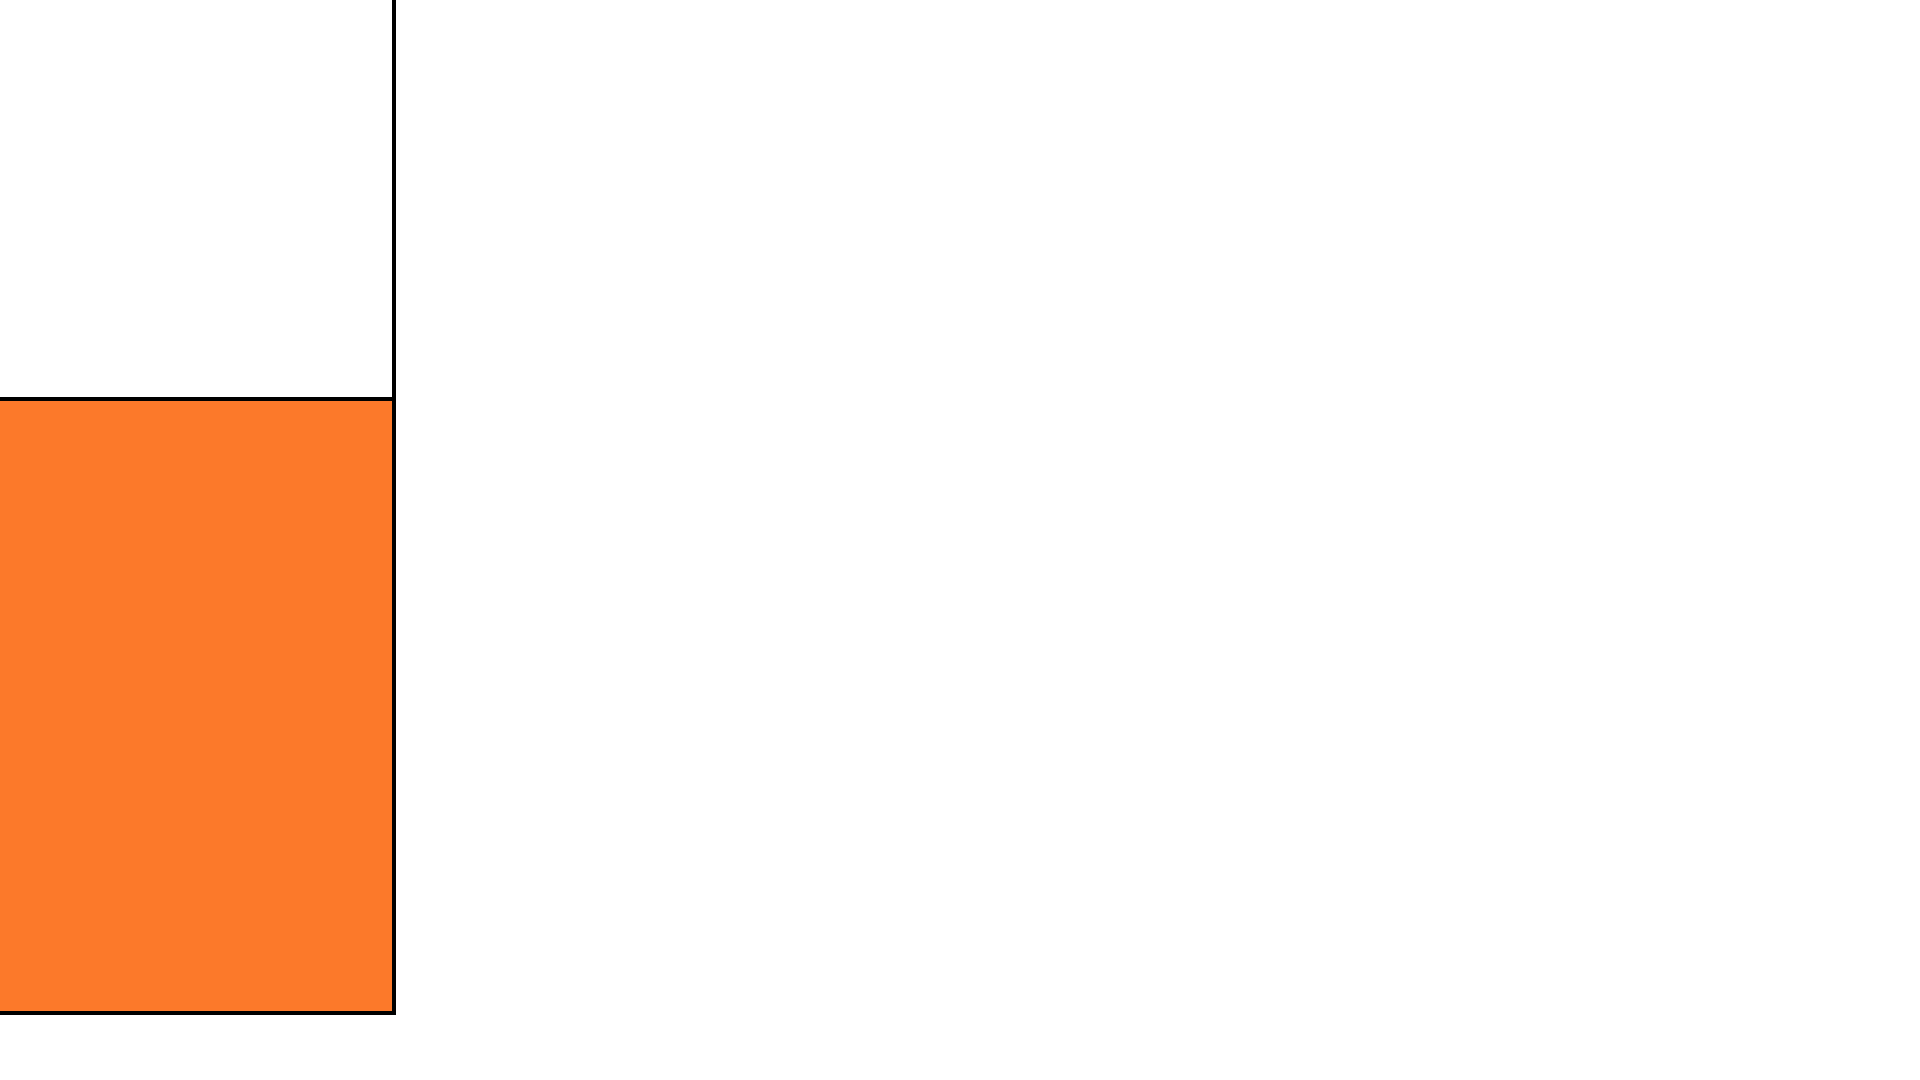
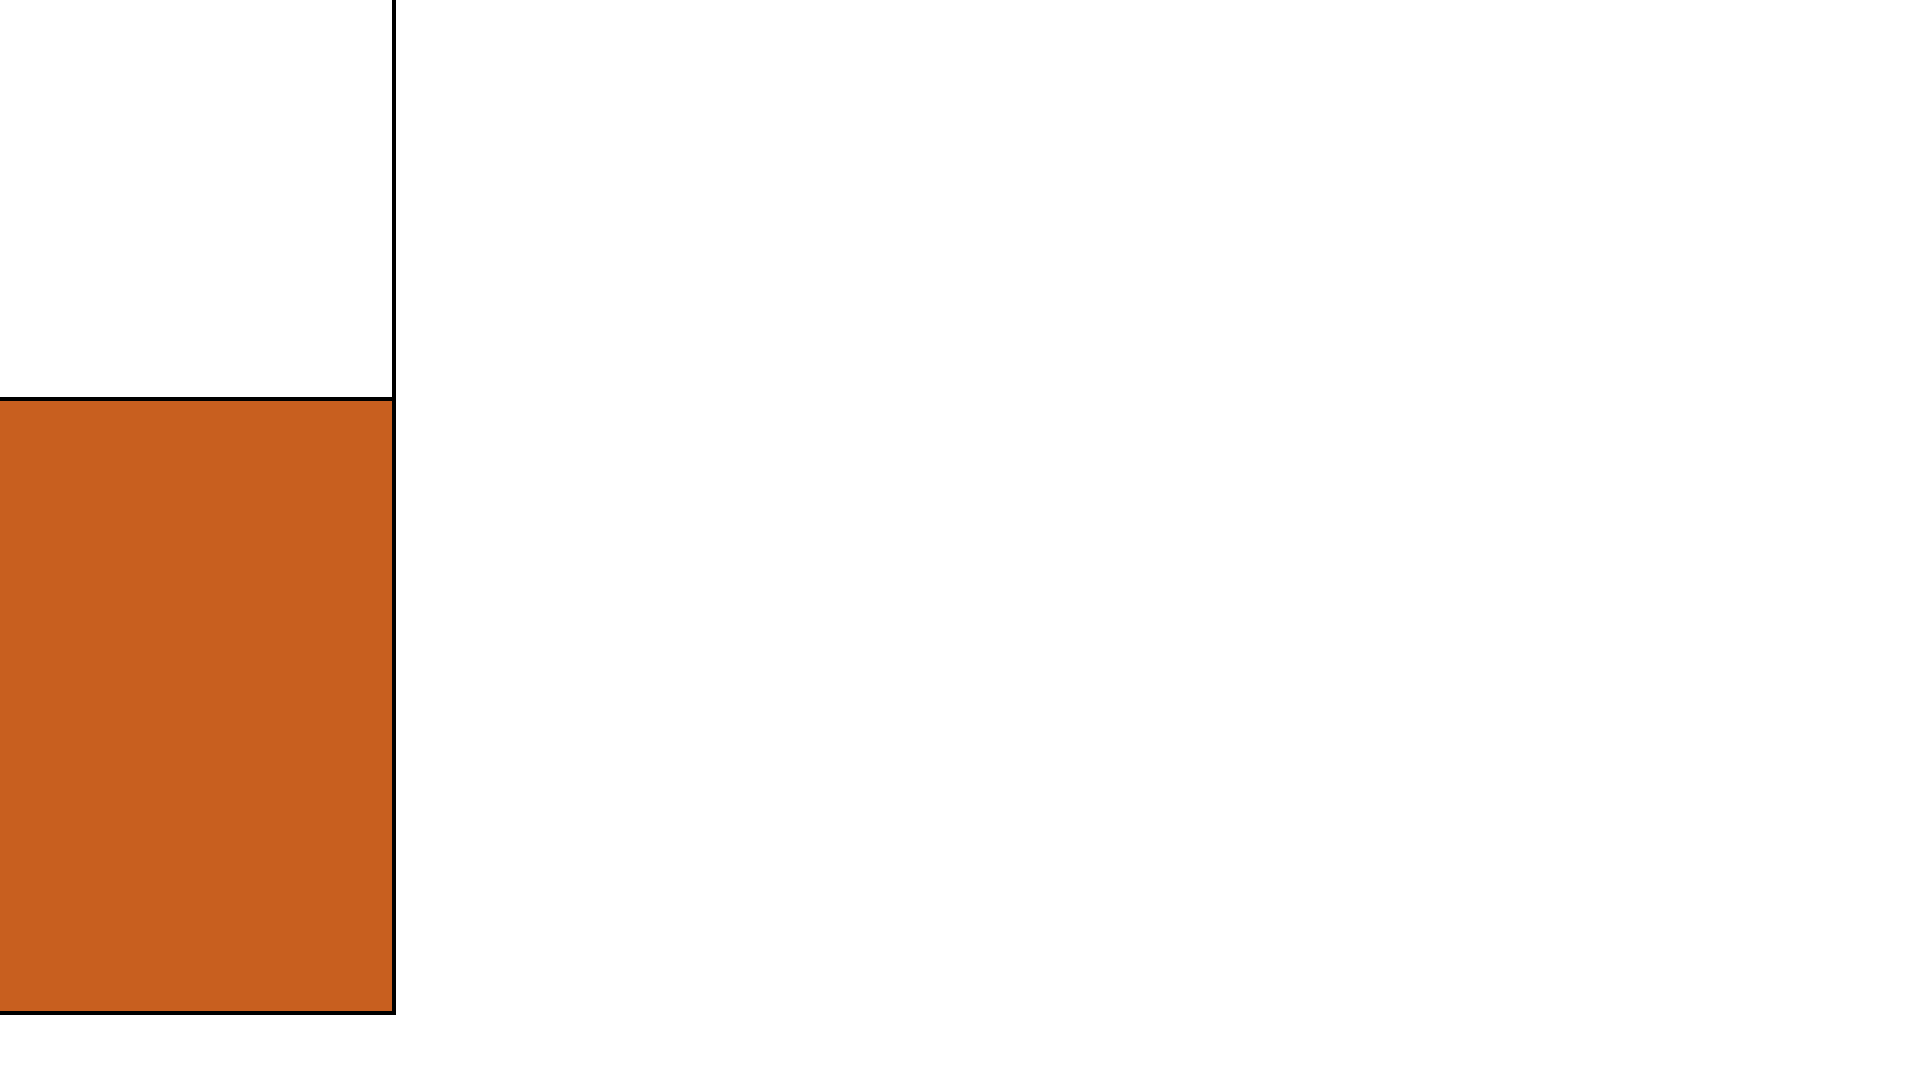
Darken GSPS18 theme a bit

Changed region(s): [[0.0, 0.3667, 0.2188, 0.9472]]

diff --git a/src/graphics/16x9-1p/main.vue b/src/graphics/16x9-1p/main.vue
@@ -176,10 +176,10 @@
 
   #sponsors {
     position: absolute;
-    bottom: 30px;
-    left: 25px;
+    bottom: 60px;
+    left: 20px;
     width: 400px;
-    height: 341px;
+    height: 371px;
     /* background-color: aqua; */
   }
 </style>

diff --git a/src/graphics/css/themes/gsps18.css b/src/graphics/css/themes/gsps18.css
@@ -1,5 +1,5 @@
 :root {
-  --gsps18-theme-color: #fc792a;
+  --gsps18-theme-color: #c85f1f;
   --light-theme-color: #000000;
 }
 
